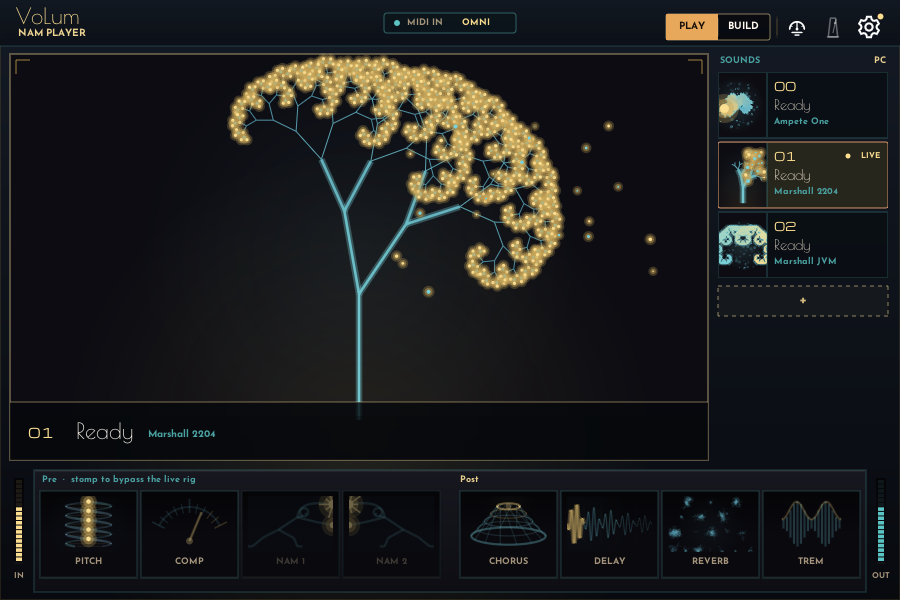
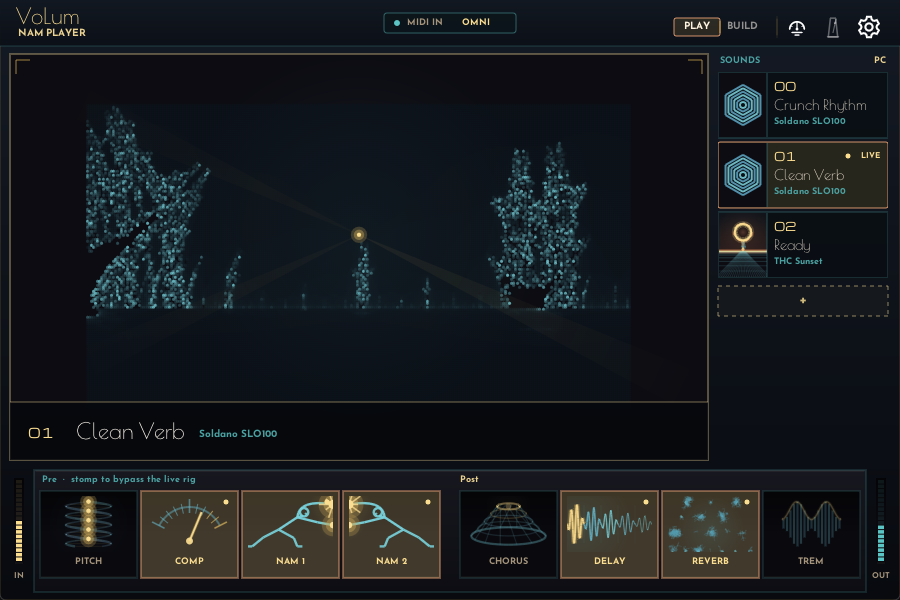
docs: refresh the screenshots the 1.3.0 UI changes invalidated
Three tabs instead of two, so the SIGNAL and SYSTEM shots were wrong in the
chrome as well as the content: SIGNAL no longer carries the MIDI card and
SYSTEM's cheat sheet has the PLAY arrows row. The MIDI tab gets the shot it
was already described by. PLAY and the hero shot are recaptured for the new
PLAY/BUILD header pair.

Captured from docs/screenshot-seed with a three-Sound MIDI map, at the
documented 900x600 canvas.

diff --git a/docs/user-guide.de.md b/docs/user-guide.de.md
@@ -239,6 +239,8 @@ Das Overlay hat drei Reiter.
 
 **SIGNAL** regelt, wie Audio hinein und hinaus gelangt: Eingangskalibrierung, Ausgangsmodus und Performance (FULL / LITE).
 
+![VoLum-Einstellungen, Reiter MIDI](user-guide-settings-midi.png)
+
 **MIDI** legt fest, auf welchem Kanal diese Instanz hört (Omni oder `1`–`16`) und was jede Program-Change-Nummer aufruft. Es ist dieselbe Liste, die PLAY zeigt: Ein hier hinzugefügter Sound erscheint auch auf der PLAY-Leiste und umgekehrt.
 
 ![VoLum-Einstellungen, Reiter SYSTEM](user-guide-settings-system.png)

diff --git a/docs/user-guide.en.md b/docs/user-guide.en.md
@@ -239,6 +239,8 @@ The overlay has three tabs.
 
 **SIGNAL** is how audio gets in and out: input calibration, output mode, and performance (FULL / LITE).
 
+![VoLum Settings, MIDI tab](user-guide-settings-midi.png)
+
 **MIDI** is which channel this instance listens on (Omni or `1`–`16`) and what each Program Change number plays. The assignment list is the same one PLAY shows, so a Sound you add here appears on the PLAY rail and the other way round.
 
 ![VoLum Settings, SYSTEM tab](user-guide-settings-system.png)
